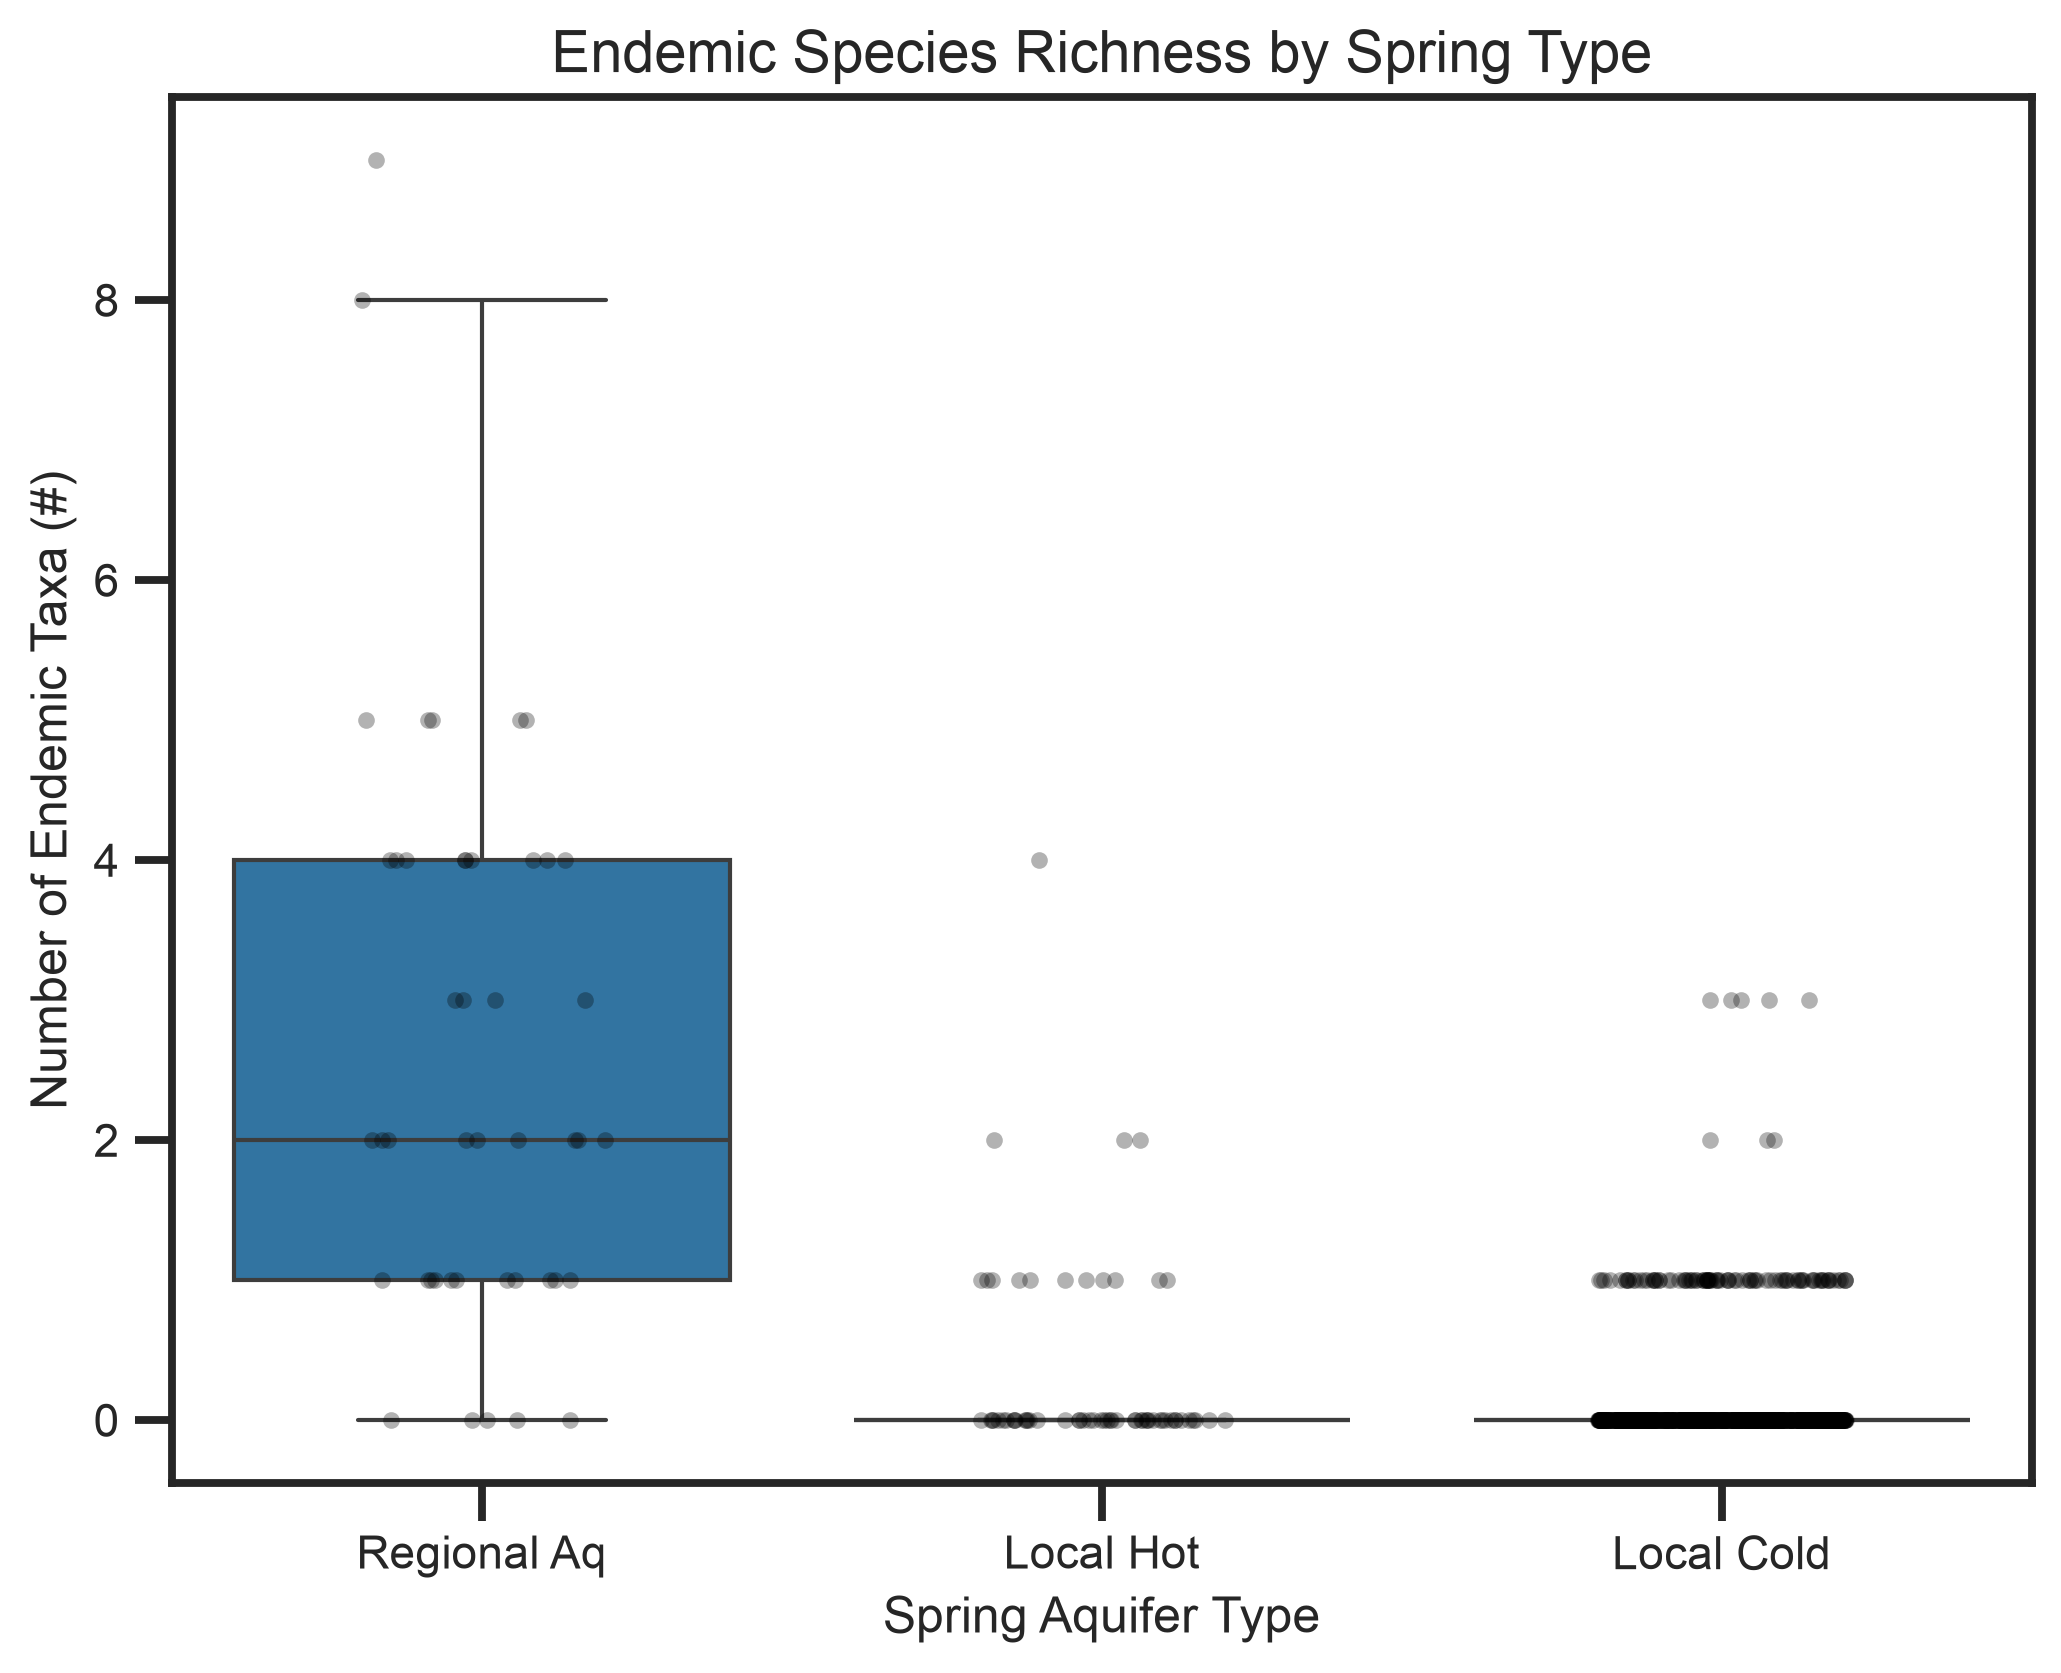
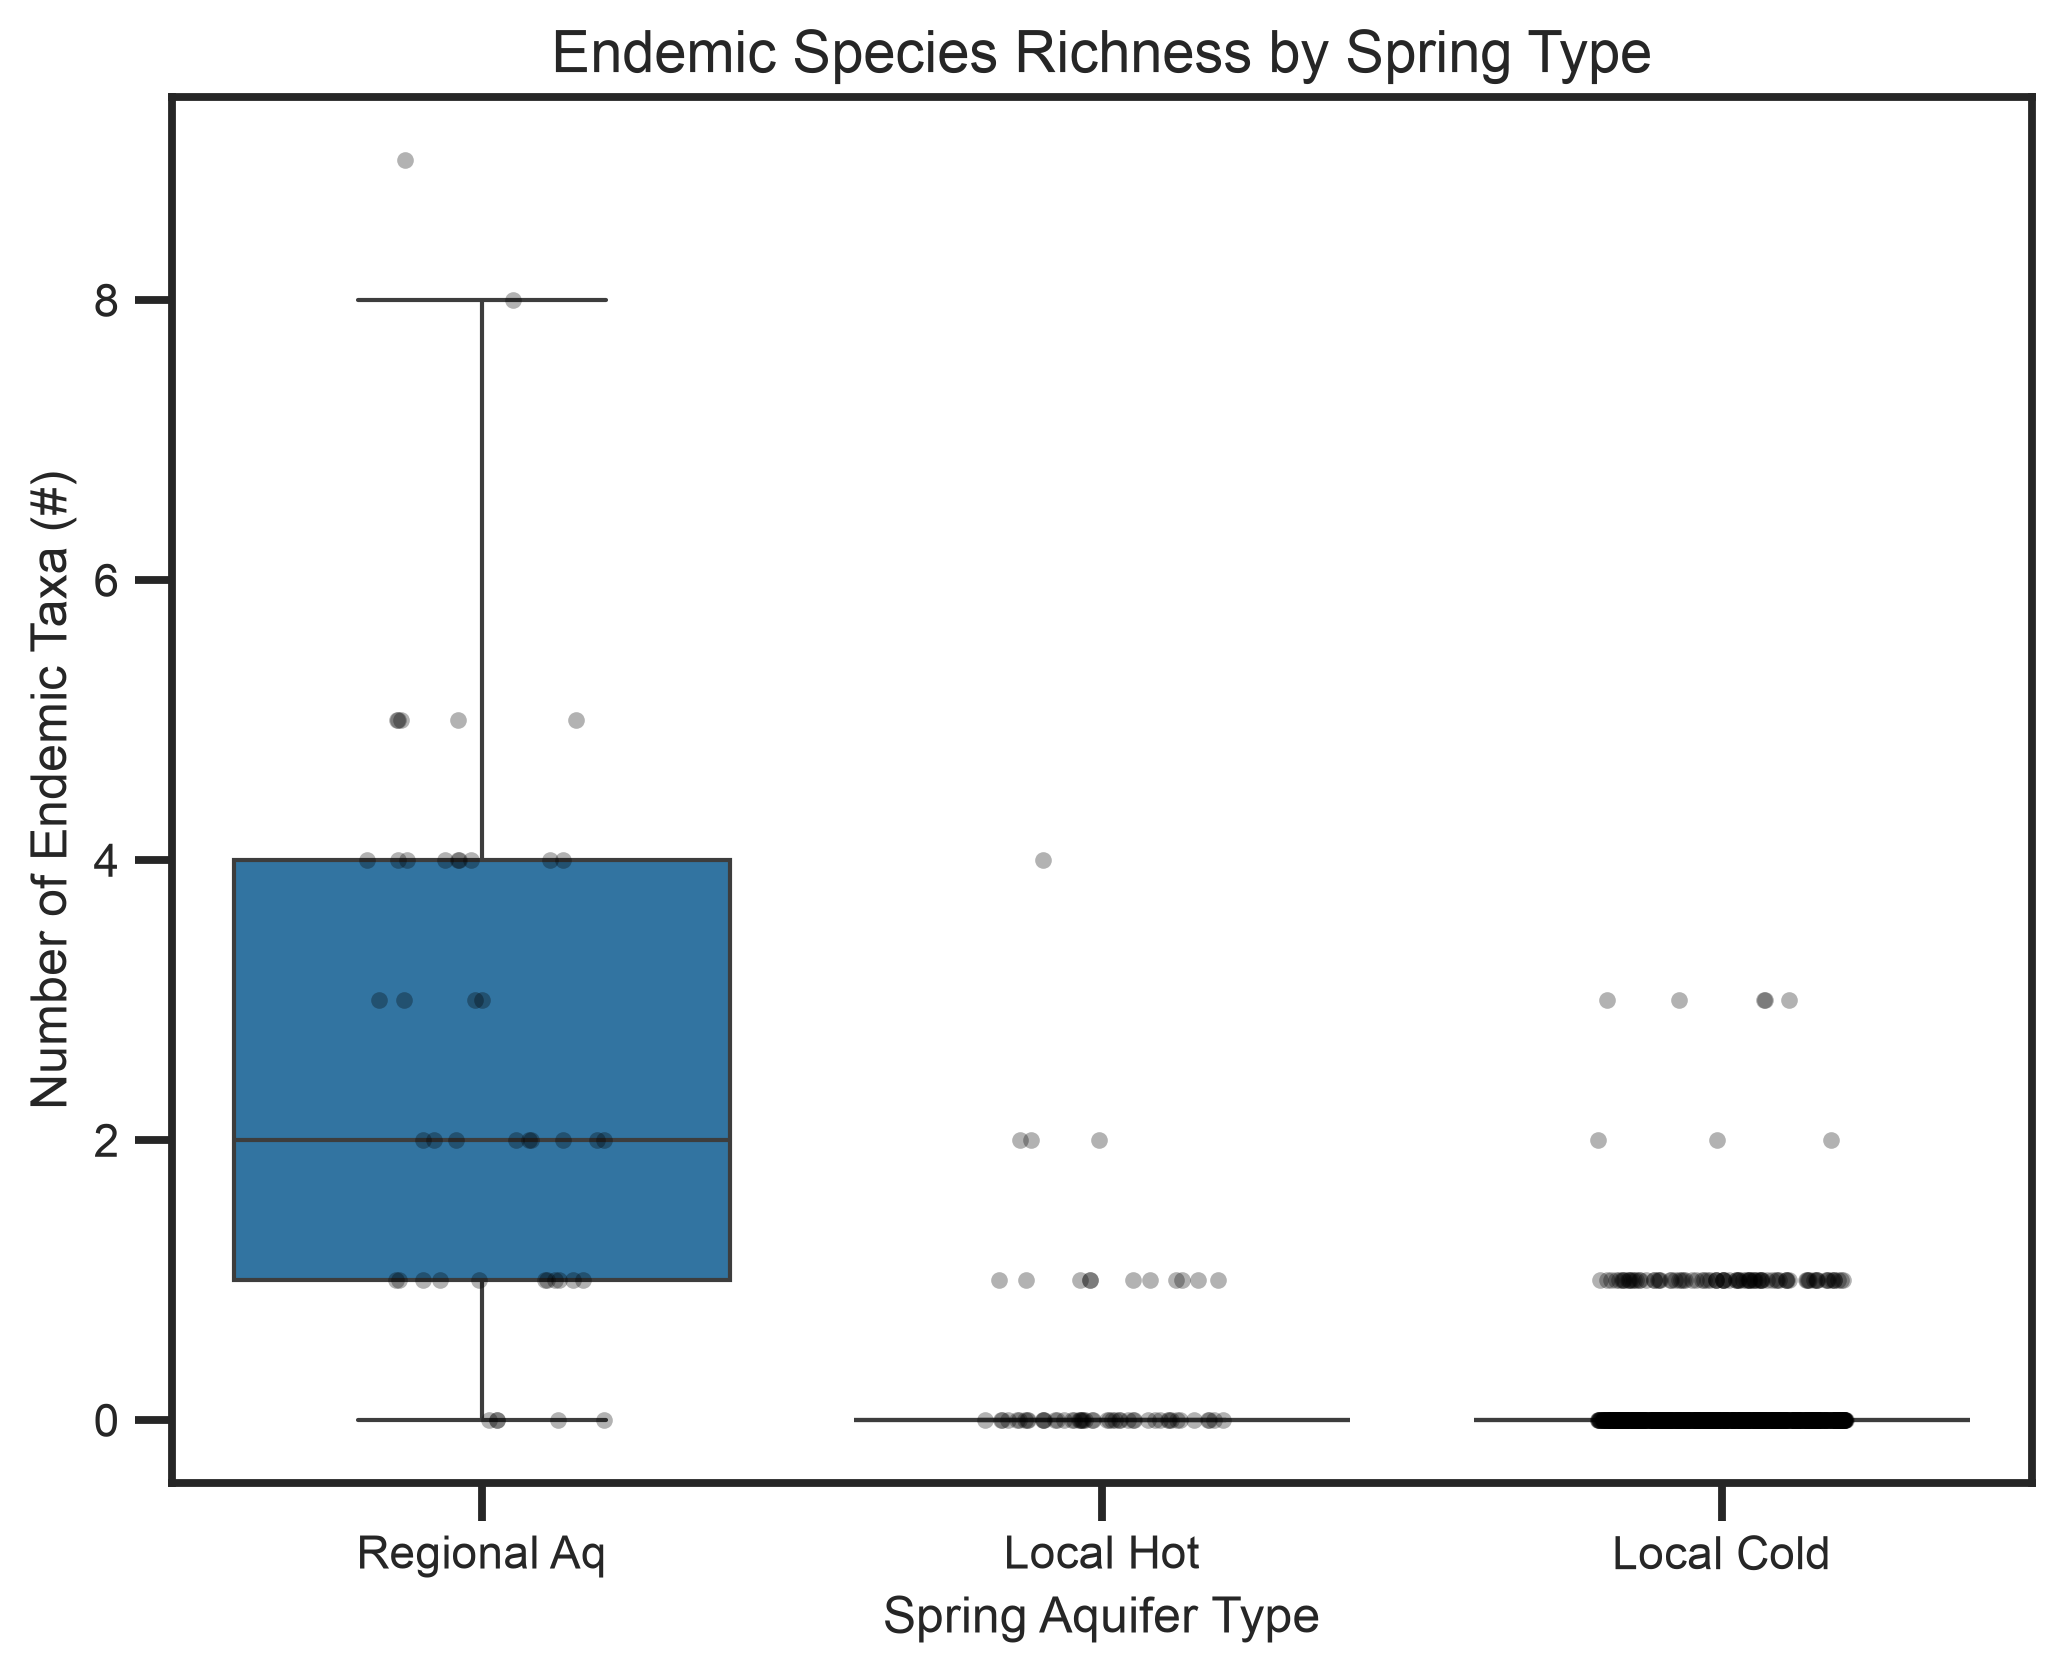
Add rationale and limitations of non-linear ordination to introduction

diff --git a/index.html b/index.html
@@ -508,6 +508,18 @@
 4. <strong>Quantifying Predictive Driver Importance</strong>: Traditional ordination plots map variables relative to each other in low-dimensional space. We extend this by using supervised machine learning (Random Forests) to quantify which specific physical drivers (e.g., substrate siltation vs. temperature) are the primary predictors of species richness within each spring category.
 5. <strong>Integrating Terrestrial and Aquatic Management Perspectives</strong>: While traditional conservation often relies on terrestrial fencing to restrict cattle grazing, our reanalysis expands on this by measuring how these protections interact with aquatic invasion rates. We show that while fencing successfully reduces terrestrial cattle disturbance, aquatic invasion rates are governed by spring physical stability, illustrating the value of a multi-tiered management approach.</p>
 <p>To implement these extensions, we integrated <strong>unsupervised manifold learning (t-SNE)</strong> and <strong>Factor Analysis (FA)</strong> with <strong>supervised machine learning (Random Forests)</strong>, <strong>non-parametric bootstrapping (2,000 resamples)</strong>, <strong>Poisson Generalized Linear Models (GLMs)</strong> with robust standard errors, and <strong>Partial Dependence Plots (PDPs)</strong>. This hybrid workflow isolates key latent environmental axes, maps their thresholds, and provides a complementary, mathematically sound ecological framework for desert spring conservation.</p>
+<h3 id="rationale-and-limitations-of-non-linear-ordination">Rationale and Limitations of Non-Linear Ordination</h3>
+<p>The decision to introduce non-linear decomposition (such as t-SNE) to complement standard linear PCA is driven by both theoretical ecological motivations and the unique constraints of this desert springs dataset:</p>
+<ul>
+<li><strong>Ecological Motivations for Non-Linearity</strong>: Species richness patterns along environmental gradients are rarely linear. They typically follow unimodal (bell-shaped) distributions corresponding to biological tolerance thresholds (e.g., minimum depth required to sustain fish populations). Standard linear PCA, while excellent for summarizing orthogonal axes of maximum variance, assumes linear combinations and can produce geometric distortions (such as the "horseshoe effect") when mapping long gradients. Non-linear ordination preserves local neighbor similarities to map these step-wise boundaries and threshold filters more faithfully.</li>
+<li><strong>Methodological Limitations of the Dataset</strong>: While non-linear methods reveal distinct habitat clusters, they are subject to major constraints when applied to this specific dataset:<ol>
+<li><em>Zero-Inflation (Presence/Absence Dominance)</em>: Out of 1121 springs, 1014 are Local Cold springs with very low or zero endemic species richness. This massive zero-inflation collapses the local similarity calculations, grouping the cold springs into a single dense, undifferentiated cloud that compresses the remaining environmental variance.</li>
+<li><em>Mixed Data Scales</em>: The dataset combines continuous parameters (e.g., temperature, substrate fractions) with discrete ordinal disturbance ranks (e.g., grazing indexes from 1 to 4). Using standard Euclidean distance metrics on these mixed types can cause t-SNE to create artificial coordinate bands along the integer ranks of the disturbances.</li>
+<li><em>Global Distance Distortion</em>: Because t-SNE prioritizes local neighbor structures, the global distance between separate clusters (such as Regional Aquifer vs. Local Hot springs) is mathematically arbitrary. Straight linear vector projections (like standard <code>envfit</code> vectors) cannot be interpreted linearly across the coordinate space, requiring localized non-linear surface interpolation (e.g., K-Nearest Neighbors grid mapping) for rigorous gradient representation.</li>
+<li><em>Subpopulation Sparsity</em>: The Regional Aquifer springs ($N=45$) contain almost all the endemic richness but represent a very small fraction of the total dataset. In this low-density region of the manifold, t-SNE can overfit to local noise or fluctuate across random seeds, requiring validation from robust, non-parametric regression.</li>
+</ol>
+</li>
+</ul>
 <hr />
 <h2 id="executive-summary">Executive Summary</h2>
 <p>The conservation of endemic desert spring taxa in the Great Basin and Mojave deserts requires understanding the latent environmental conditions that support them. Desert springs act as critical evolutionary refugia, but they are not uniform. By separating these systems into three aquifer types—<strong>Regional Aquifer Springs</strong> (stable, warm), <strong>Local Hot Springs</strong> (geothermal), and <strong>Local Cold Springs</strong> (ephemeral)—and analyzing them using a combination of unsupervised latent decomposition and robust supervised modeling, we uncover the following major findings:</p>

diff --git a/publication.html b/publication.html
@@ -508,6 +508,18 @@
 4. <strong>Quantifying Predictive Driver Importance</strong>: Traditional ordination plots map variables relative to each other in low-dimensional space. We extend this by using supervised machine learning (Random Forests) to quantify which specific physical drivers (e.g., substrate siltation vs. temperature) are the primary predictors of species richness within each spring category.
 5. <strong>Integrating Terrestrial and Aquatic Management Perspectives</strong>: While traditional conservation often relies on terrestrial fencing to restrict cattle grazing, our reanalysis expands on this by measuring how these protections interact with aquatic invasion rates. We show that while fencing successfully reduces terrestrial cattle disturbance, aquatic invasion rates are governed by spring physical stability, illustrating the value of a multi-tiered management approach.</p>
 <p>To implement these extensions, we integrated <strong>unsupervised manifold learning (t-SNE)</strong> and <strong>Factor Analysis (FA)</strong> with <strong>supervised machine learning (Random Forests)</strong>, <strong>non-parametric bootstrapping (2,000 resamples)</strong>, <strong>Poisson Generalized Linear Models (GLMs)</strong> with robust standard errors, and <strong>Partial Dependence Plots (PDPs)</strong>. This hybrid workflow isolates key latent environmental axes, maps their thresholds, and provides a complementary, mathematically sound ecological framework for desert spring conservation.</p>
+<h3 id="rationale-and-limitations-of-non-linear-ordination">Rationale and Limitations of Non-Linear Ordination</h3>
+<p>The decision to introduce non-linear decomposition (such as t-SNE) to complement standard linear PCA is driven by both theoretical ecological motivations and the unique constraints of this desert springs dataset:</p>
+<ul>
+<li><strong>Ecological Motivations for Non-Linearity</strong>: Species richness patterns along environmental gradients are rarely linear. They typically follow unimodal (bell-shaped) distributions corresponding to biological tolerance thresholds (e.g., minimum depth required to sustain fish populations). Standard linear PCA, while excellent for summarizing orthogonal axes of maximum variance, assumes linear combinations and can produce geometric distortions (such as the "horseshoe effect") when mapping long gradients. Non-linear ordination preserves local neighbor similarities to map these step-wise boundaries and threshold filters more faithfully.</li>
+<li><strong>Methodological Limitations of the Dataset</strong>: While non-linear methods reveal distinct habitat clusters, they are subject to major constraints when applied to this specific dataset:<ol>
+<li><em>Zero-Inflation (Presence/Absence Dominance)</em>: Out of 1121 springs, 1014 are Local Cold springs with very low or zero endemic species richness. This massive zero-inflation collapses the local similarity calculations, grouping the cold springs into a single dense, undifferentiated cloud that compresses the remaining environmental variance.</li>
+<li><em>Mixed Data Scales</em>: The dataset combines continuous parameters (e.g., temperature, substrate fractions) with discrete ordinal disturbance ranks (e.g., grazing indexes from 1 to 4). Using standard Euclidean distance metrics on these mixed types can cause t-SNE to create artificial coordinate bands along the integer ranks of the disturbances.</li>
+<li><em>Global Distance Distortion</em>: Because t-SNE prioritizes local neighbor structures, the global distance between separate clusters (such as Regional Aquifer vs. Local Hot springs) is mathematically arbitrary. Straight linear vector projections (like standard <code>envfit</code> vectors) cannot be interpreted linearly across the coordinate space, requiring localized non-linear surface interpolation (e.g., K-Nearest Neighbors grid mapping) for rigorous gradient representation.</li>
+<li><em>Subpopulation Sparsity</em>: The Regional Aquifer springs ($N=45$) contain almost all the endemic richness but represent a very small fraction of the total dataset. In this low-density region of the manifold, t-SNE can overfit to local noise or fluctuate across random seeds, requiring validation from robust, non-parametric regression.</li>
+</ol>
+</li>
+</ul>
 <hr />
 <h2 id="executive-summary">Executive Summary</h2>
 <p>The conservation of endemic desert spring taxa in the Great Basin and Mojave deserts requires understanding the latent environmental conditions that support them. Desert springs act as critical evolutionary refugia, but they are not uniform. By separating these systems into three aquifer types—<strong>Regional Aquifer Springs</strong> (stable, warm), <strong>Local Hot Springs</strong> (geothermal), and <strong>Local Cold Springs</strong> (ephemeral)—and analyzing them using a combination of unsupervised latent decomposition and robust supervised modeling, we uncover the following major findings:</p>

diff --git a/results.md b/results.md
@@ -15,6 +15,16 @@ The foundational work by Forrest et al. (2026) established a vital baseline and 
 
 To implement these extensions, we integrated **unsupervised manifold learning (t-SNE)** and **Factor Analysis (FA)** with **supervised machine learning (Random Forests)**, **non-parametric bootstrapping (2,000 resamples)**, **Poisson Generalized Linear Models (GLMs)** with robust standard errors, and **Partial Dependence Plots (PDPs)**. This hybrid workflow isolates key latent environmental axes, maps their thresholds, and provides a complementary, mathematically sound ecological framework for desert spring conservation.
 
+### Rationale and Limitations of Non-Linear Ordination
+
+The decision to introduce non-linear decomposition (such as t-SNE) to complement standard linear PCA is driven by both theoretical ecological motivations and the unique constraints of this desert springs dataset:
+
+*   **Ecological Motivations for Non-Linearity**: Species richness patterns along environmental gradients are rarely linear. They typically follow unimodal (bell-shaped) distributions corresponding to biological tolerance thresholds (e.g., minimum depth required to sustain fish populations). Standard linear PCA, while excellent for summarizing orthogonal axes of maximum variance, assumes linear combinations and can produce geometric distortions (such as the "horseshoe effect") when mapping long gradients. Non-linear ordination preserves local neighbor similarities to map these step-wise boundaries and threshold filters more faithfully.
+*   **Methodological Limitations of the Dataset**: While non-linear methods reveal distinct habitat clusters, they are subject to major constraints when applied to this specific dataset:
+    1.  *Zero-Inflation (Presence/Absence Dominance)*: Out of 1121 springs, 1014 are Local Cold springs with very low or zero endemic species richness. This massive zero-inflation collapses the local similarity calculations, grouping the cold springs into a single dense, undifferentiated cloud that compresses the remaining environmental variance.
+    2.  *Mixed Data Scales*: The dataset combines continuous parameters (e.g., temperature, substrate fractions) with discrete ordinal disturbance ranks (e.g., grazing indexes from 1 to 4). Using standard Euclidean distance metrics on these mixed types can cause t-SNE to create artificial coordinate bands along the integer ranks of the disturbances.
+    3.  *Global Distance Distortion*: Because t-SNE prioritizes local neighbor structures, the global distance between separate clusters (such as Regional Aquifer vs. Local Hot springs) is mathematically arbitrary. Straight linear vector projections (like standard `envfit` vectors) cannot be interpreted linearly across the coordinate space, requiring localized non-linear surface interpolation (e.g., K-Nearest Neighbors grid mapping) for rigorous gradient representation.
+    4.  *Subpopulation Sparsity*: The Regional Aquifer springs ($N=45$) contain almost all the endemic richness but represent a very small fraction of the total dataset. In this low-density region of the manifold, t-SNE can overfit to local noise or fluctuate across random seeds, requiring validation from robust, non-parametric regression.
 
 ---
 